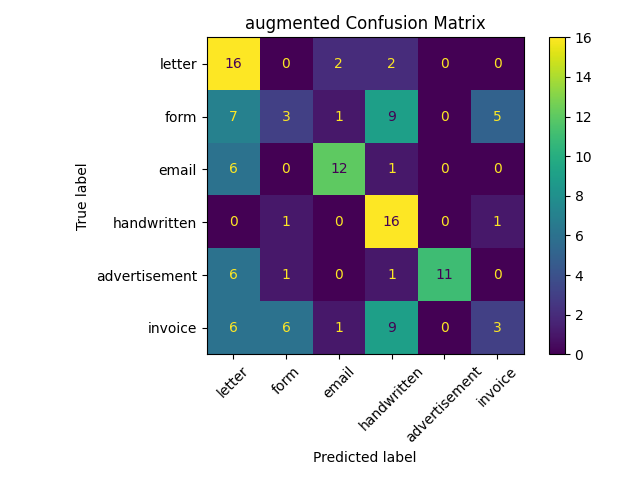
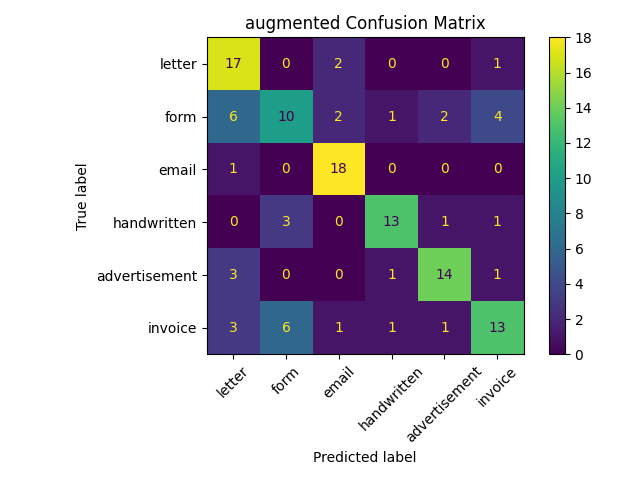
Update app to use improved baseline model

diff --git a/train.py b/train.py
@@ -16,8 +16,16 @@ def build_model(num_classes):
     # freeze pretrained feature extractor
     for param in model.features.parameters():
         param.requires_grad = False
+    
+    # Unfreeze last few MobileNetV2 blocks
+    for param in model.features[-4:].parameters():
+        param.requires_grad = True
     # replcae final classification layer with a new layer for our doc classes 
-    model.classifier[1] = nn.Linear(model.classifier[1].in_features, num_classes)
+    model.classifier = nn.Sequential(
+        nn.Dropout(0.3),
+        nn.Linear(model.last_channel, num_classes)
+    )
+    #  model.classifier[1] = nn.Linear(model.classifier[1].in_features, num_classes)
     return model
 
 
@@ -77,7 +85,11 @@ def main():
     model = build_model(num_classes=len(SELECTED_CLASSES)).to(device)
     criterion = nn.CrossEntropyLoss()
     # train only classifier model: only update classifier weights and keep pretrained feature extractor unchanged 
-    optimizer = torch.optim.Adam(model.classifier.parameters(), lr=1e-3)
+    # optimizer = torch.optim.Adam(model.classifier.parameters(), lr=1e-3)
+    optimizer = torch.optim.Adam(
+        filter(lambda p: p.requires_grad, model.parameters()),
+        lr=1e-4
+    )
 
     for epoch in range(args.epochs):
         loss, acc = train_one_epoch(model, train_loader, criterion, optimizer, device)

diff --git a/app.py b/app.py
@@ -8,7 +8,8 @@ from src.config import SELECTED_CLASSES
 from src.transforms import get_baseline_transforms
 
 
-MODEL_PATH = "models/augmented_model.pt"
+#  MODEL_PATH = "models/augmented_model.pt"
+MODEL_PATH = "models/baseline_model.pt"
 
 # recreate the same model used during training 
 def build_model(num_classes):